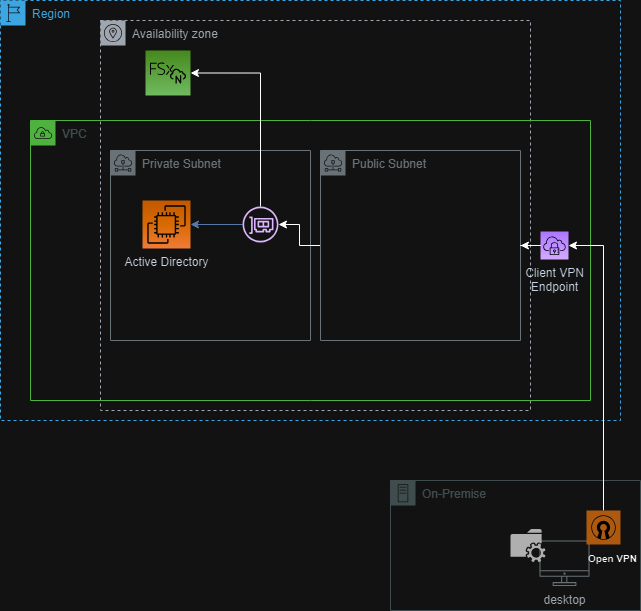
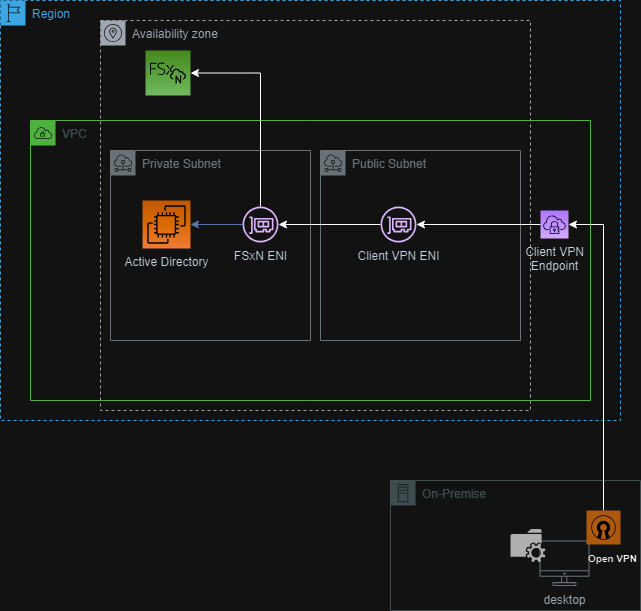
Updates

Changed region(s): [[0.8112, 0.3421, 0.9048, 0.4975], [0.5616, 0.3421, 0.6864, 0.4354], [0.3744, 0.4043, 0.468, 0.4354]]

diff --git a/README.md b/README.md
@@ -9,5 +9,62 @@ The terrraform code deploys an Amazon FSx for NetApp ONTAP filesystem, AD and VP
 - VPC
 - 1 Public and 1 Private Subnet
 - 1 Active Directory on EC2
+  - The active directory configuration will include a Domain setup, Organization Unit (FSxN), a File System Administrators group, and a service account user
 - 1 FSxN File System (1 SVM joined to AD and 3 volumes)
 - 1 Client VPN Endpoint
+
+##### Post Deployment
+
+- Access the AD instance and create file shares
+- Add additional users and assign share permissions if necessary
+- Setup VPN Client (see the AWS Client VPN setup section)
+- Connect to the VPN via OpenVPN Client and access the file shares using the SVM IP address
+
+##### AWS Client VPN Setup
+
+Open the Amazon VPC console at https://console.aws.amazon.com/vpc/.
+
+In the navigation pane, choose Client VPN Endpoints.
+
+Select the Client VPN endpoint that you created for this tutorial, and choose Download client configuration.
+
+Locate the client certificate and key that were generated in Step 1. The client certificate and key can be found in the following locations in the cloned OpenVPN easy-rsa repo:
+
+Note: The default certificates can be found under the .terraform/modules/vpn/certs or can be checked at https://github.com/varunrai/terraform-aws-clientvpn.git
+These certs are pre-generated and should not be used for production deployment.
+You may want to generate your own certificates for use with this setup and assign the variables of the VPN module in main.tf
+
+```bash
+Client certificate — easy-rsa/easyrsa3/pki/issued/client1.domain.tld.crt
+
+Client key — easy-rsa/easyrsa3/pki/private/client1.domain.tld.key
+```
+
+Open the Client VPN endpoint configuration file using your preferred text editor. Add <cert></cert> and <key></key> tags to the file. Place the contents of the client certificate and the contents of the private key between the corresponding tags, as such:
+
+```xml
+<cert>
+Contents of client certificate (.crt) file
+</cert>
+
+<key>
+Contents of private key (.key) file
+</key>
+```
+
+Locate the line that specifies the Client VPN endpoint DNS name, and prepend a random string to it so that the format is random_string.displayed_DNS_name. For example:
+
+```
+Original DNS name: cvpn-endpoint-0102bc4c2eEXAMPLE.prod.clientvpn.us-west-2.amazonaws.com
+
+Modified DNS name: asdfa.cvpn-endpoint-0102bc4c2eEXAMPLE.prod.clientvpn.us-west-2.amazonaws.com
+```
+
+Note:
+We recommend that you always use the DNS name provided for the Client VPN endpoint in your configuration file, as described. The IP addresses that the DNS name will resolve to are subject to change.
+
+Save and close the Client VPN endpoint configuration file.
+
+Distribute the Client VPN endpoint configuration file to your end users.
+
+[Reference](https://docs.aws.amazon.com/vpn/latest/clientvpn-admin/cvpn-getting-started.html#cvpn-getting-started-config)
